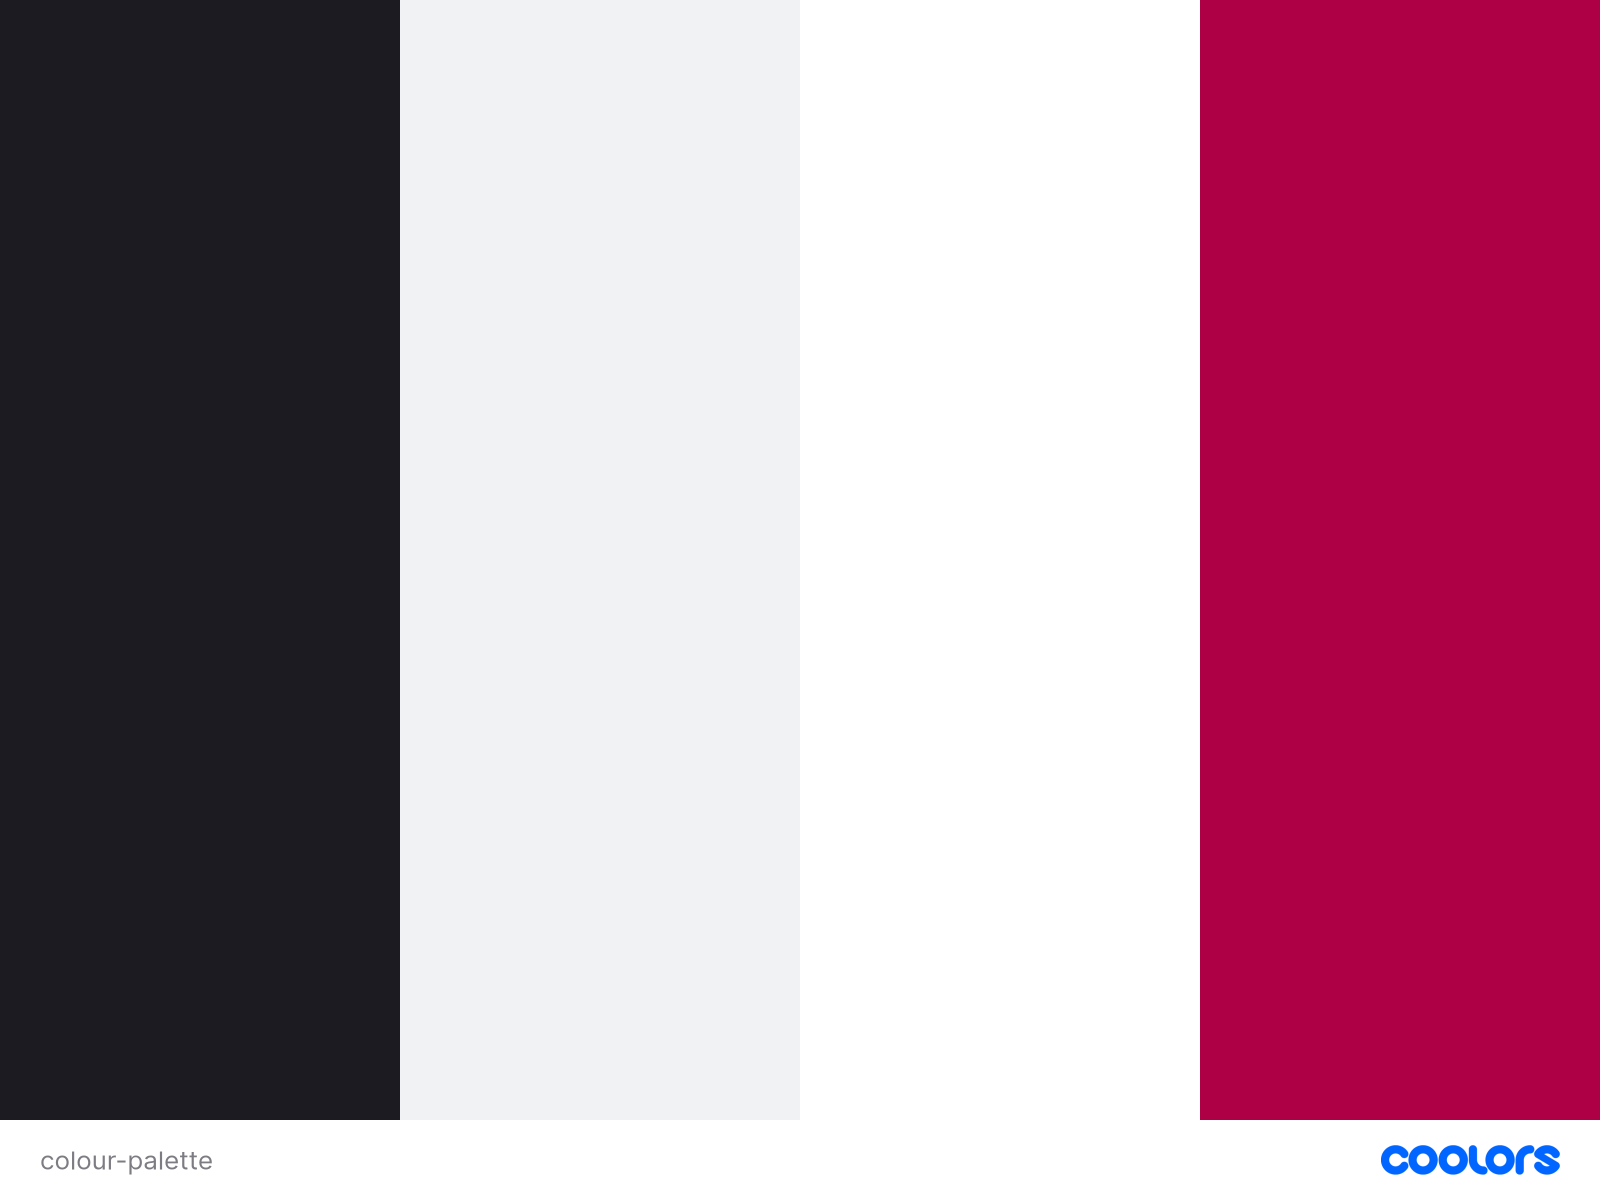
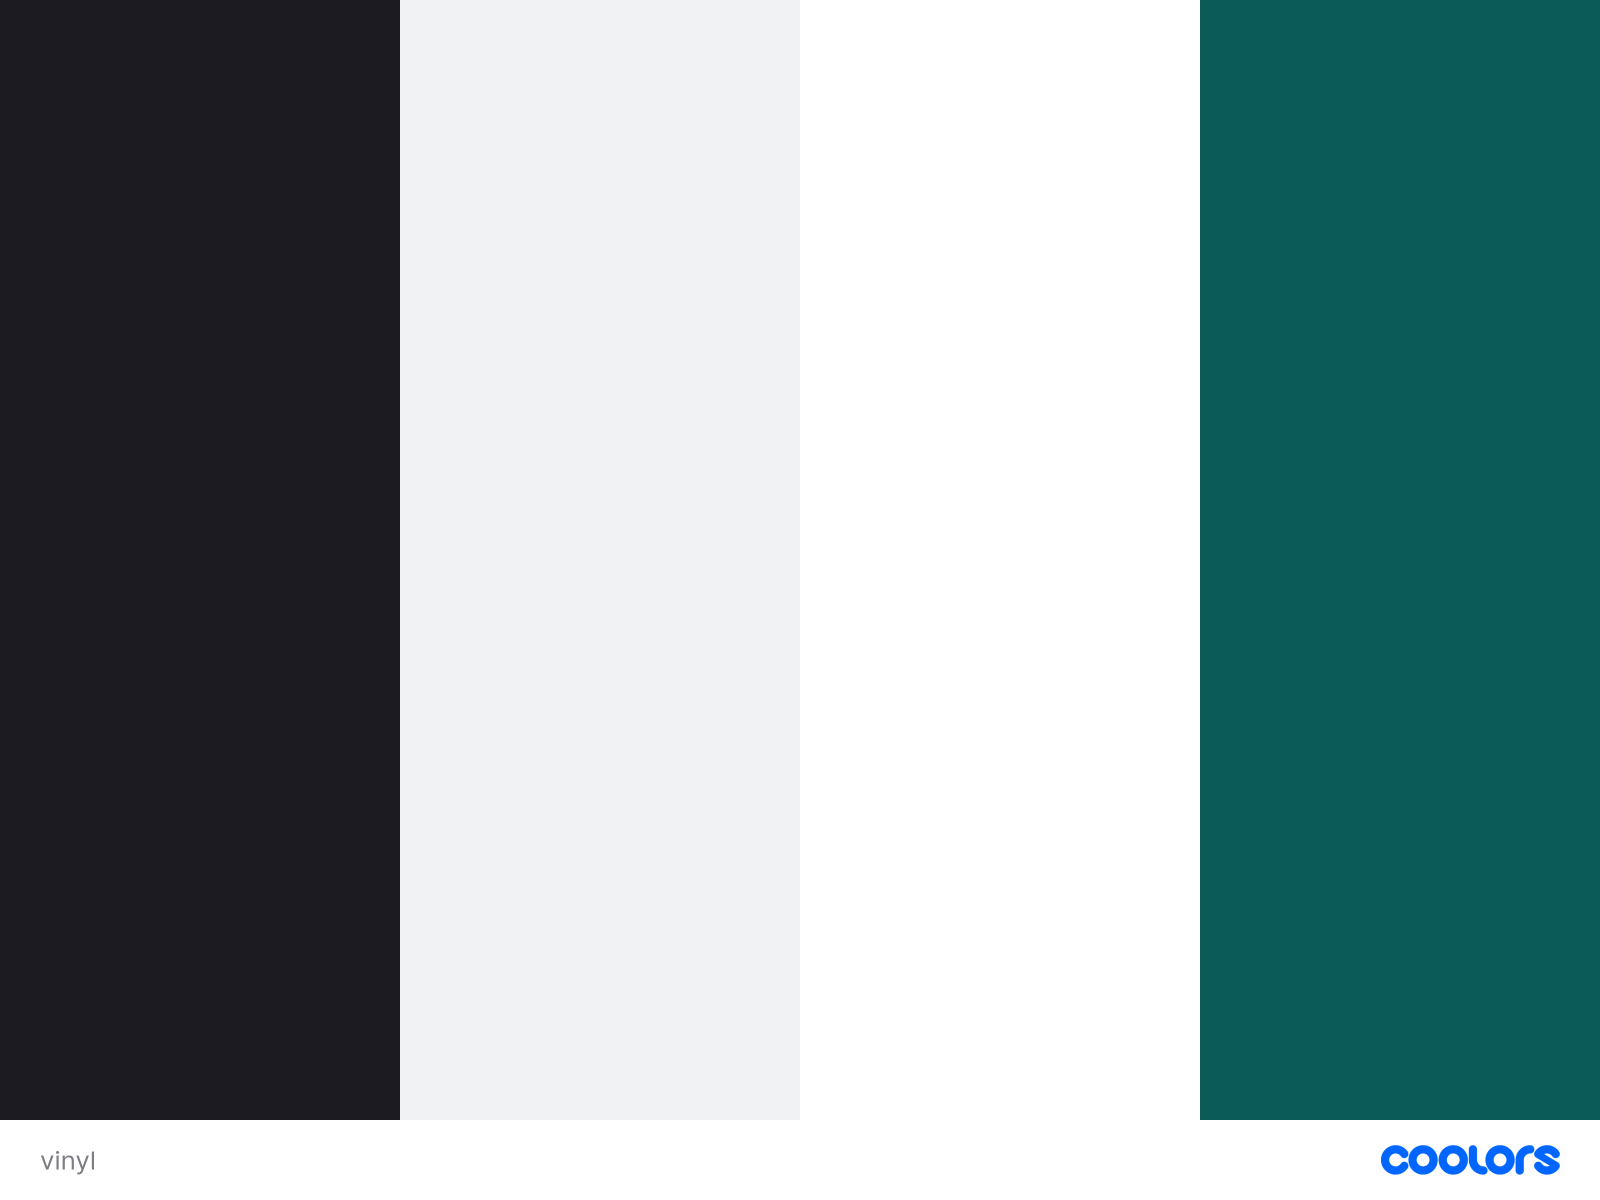
testing: python linter for albums app, including fixes across multiple files (line length and trailing whitespaces)

Changed region(s): [[0.75, 0.0, 1.0, 0.9558], [0.0312, 0.9558, 0.125, 0.9867]]

diff --git a/albums/views.py b/albums/views.py
@@ -33,7 +33,7 @@ def browse_albums(request):
     """
     Display a paginated grid of all albums (16 per page, 4x4 grid),
     sortable by release date, title (A-Z), or price.
-    Uses get_page() so an invalid/missing 'page' query param falls 
+    Uses get_page() so an invalid/missing 'page' query param falls
     back instead of erroring.
     """
     sort = request.GET.get('sort', 'release_desc')
@@ -44,7 +44,9 @@ def browse_albums(request):
         'price_low': 'price',
         'price_high': '-price',
     }
-    album_list = Album.objects.all().order_by(sort_options.get(sort, '-release_date'))
+    album_list = Album.objects.all().order_by(
+        sort_options.get(sort, '-release_date')
+    )
 
     paginator = Paginator(album_list, 16)
     page_number = request.GET.get('page')
@@ -101,10 +103,10 @@ def album_search(request):
     Render a paginated grid of albums matching a search query.
 
     Retrieves the 'q' parameter from the request and filters Album
-    records by title or artist using a case‑insensitive containment 
-    match. The filtered queryset is ordered alphabetically and 
-    paginated into 16‑item pages to maintain the same 4×4 layout 
-    used on the main browse view. Uses get_page() to safely handle 
+    records by title or artist using a case‑insensitive containment
+    match. The filtered queryset is ordered alphabetically and
+    paginated into 16‑item pages to maintain the same 4×4 layout
+    used on the main browse view. Uses get_page() to safely handle
     invalid or missing 'page' parameters.
     """
     query = request.GET.get('q', '')

diff --git a/albums/models.py b/albums/models.py
@@ -1,5 +1,6 @@
 from django.db import models
 
+
 class Album(models.Model):
     FORMAT_CHOICES = [
         ('vinyl', 'Standard Vinyl'),
@@ -10,21 +11,26 @@ class Album(models.Model):
     title = models.CharField(max_length=200)
     artist = models.CharField(max_length=200)
     price = models.DecimalField(max_digits=6, decimal_places=2)
-    sale_price = models.DecimalField(max_digits=6, decimal_places=2, blank=True, null=True)
+    sale_price = models.DecimalField(
+        max_digits=6, decimal_places=2, blank=True, null=True
+    )
     is_on_sale = models.BooleanField(default=False)
     release_date = models.DateField(blank=True, null=True)
     genre = models.CharField(max_length=100, blank=True)
     cover_image_url = models.URLField(blank=True)
     description = models.TextField(blank=True)
-    format = models.CharField(max_length=20, choices=FORMAT_CHOICES, default='vinyl')
+    format = models.CharField(
+        max_length=20, choices=FORMAT_CHOICES, default='vinyl'
+    )
     colour_variant = models.CharField(max_length=100, blank=True)
     label = models.CharField(max_length=200, blank=True)
     stock_quantity = models.PositiveIntegerField(default=0)
     tracklist = models.TextField(blank=True)
-    deezer_id = models.IntegerField(blank=True, null=True) 
+    deezer_id = models.IntegerField(blank=True, null=True)
     created_at = models.DateTimeField(auto_now_add=True)
     is_featured = models.BooleanField(default=False)
     featured_reason = models.TextField(blank=True)
 
     def __str__(self):
         return f"{self.title} — {self.artist}"
+    

diff --git a/albums/test_views.py b/albums/test_views.py
@@ -40,7 +40,9 @@ class AlbumsViewsTestCase(TestCase):
         self.assertContains(response, 'Test Album')
 
     def test_browse_albums_falls_back_on_invalid_page_number(self):
-        response = self.client.get(reverse('albums:browse_albums'), {'page': 'not-a-number'})
+        response = self.client.get(
+            reverse('albums:browse_albums'), {'page': 'not-a-number'}
+        )
         self.assertEqual(response.status_code, 200)
 
     # --- Store Management: permission boundaries ---

diff --git a/TESTING.md b/TESTING.md
@@ -315,6 +315,49 @@ As part of the testing process, quality assurance checks were conducted across a
 - **Line length**: All lines adhere to the PEP 8 maximum of 79 characters.
 
 
+| App | File | URL | Status | Notes |
+|----|----|----|----|----|
+| albums | admin.py | [Pep8 CI Link](https://pep8ci.herokuapp.com/https://raw.githubusercontent.com/louisfjames/vinyl_vault/refs/heads/main/albums/admin.py) | ✅ | Fixed - no newline at end of file. |
+| albums | apps.py | [Pep8 CI Link](https://pep8ci.herokuapp.com/https://raw.githubusercontent.com/louisfjames/vinyl_vault/refs/heads/main/albums/apps.py) | ✅ | None. |
+| albums | forms.py | [Pep8 CI Link](https://pep8ci.herokuapp.com/https://raw.githubusercontent.com/louisfjames/vinyl_vault/refs/heads/main/albums/forms.py) | ✅ | None. |
+| albums | models.py | [Pep8 CI Link](https://pep8ci.herokuapp.com/https://raw.githubusercontent.com/louisfjames/vinyl_vault/refs/heads/main/albums/models.py) | ✅ | Fixed - lines too long and trailing whitespace. |
+| albums | test_views.py | [Pep8 CI Link](https://pep8ci.herokuapp.com/https://raw.githubusercontent.com/louisfjames/vinyl_vault/refs/heads/main/albums/test_views.py) | ✅ | Fixed - line too long. |
+| albums | urls.py | [Pep8 CI Link](https://pep8ci.herokuapp.com/https://raw.githubusercontent.com/louisfjames/vinyl_vault/refs/heads/main/albums/urls.py) | ✅ | |
+| albums | views.py | [Pep8 CI Link](LINK) | ✅ | |
+| bag | admin.py | [Pep8 CI Link](LINK) | | |
+| bag | apps.py | [Pep8 CI Link](LINK) | | |
+| bag | contexts.py | [Pep8 CI Link](LINK) | | |
+| bag | models.py | [Pep8 CI Link](LINK) | | |
+| bag | test_views.py | [Pep8 CI Link](LINK) | | |
+| bag | urls.py | [Pep8 CI Link](LINK) | | |
+| bag | views.py | [Pep8 CI Link](LINK) | | |
+| checkout | admin.py | [Pep8 CI Link](LINK) | | |
+| checkout | apps.py | [Pep8 CI Link](LINK) | | |
+| checkout | forms.py | [Pep8 CI Link](LINK) | | |
+| checkout | models.py | [Pep8 CI Link](LINK) | | |
+| checkout | signals.py | [Pep8 CI Link](LINK) | | |
+| checkout | test_views.py | [Pep8 CI Link](LINK) | | |
+| checkout | urls.py | [Pep8 CI Link](LINK) | | |
+| checkout | views.py | [Pep8 CI Link](LINK) | | |
+| core | admin.py | [Pep8 CI Link](LINK) | | |
+| core | apps.py | [Pep8 CI Link](LINK) | | |
+| core | forms.py | [Pep8 CI Link](LINK) | | |
+| core | models.py | [Pep8 CI Link](LINK) | | |
+| core | tests.py | [Pep8 CI Link](LINK) | | |
+| core | urls.py | [Pep8 CI Link](LINK) | | |
+| core | views.py | [Pep8 CI Link](LINK) | | |
+| profiles | admin.py | [Pep8 CI Link](LINK) | | |
+| profiles | apps.py | [Pep8 CI Link](LINK) | | |
+| profiles | forms.py | [Pep8 CI Link](LINK) | | |
+| profiles | models.py | [Pep8 CI Link](LINK) | | |
+| profiles | tests.py | [Pep8 CI Link](LINK) | | |
+| profiles | urls.py | [Pep8 CI Link](LINK) | | |
+| profiles | views.py | [Pep8 CI Link](LINK) | | |
+| vinyl_vault | asgi.py | [Pep8 CI Link](LINK) | | |
+| vinyl_vault | settings.py | [Pep8 CI Link](LINK) | | |
+| vinyl_vault | urls.py | [Pep8 CI Link](LINK) | | |
+| vinyl_vault | wsgi.py | [Pep8 CI Link](LINK) | | |
+
 ### Google Chrome Lighthouse
 | Page | Desktop Results| Notes |
 |------|---------------|------|
